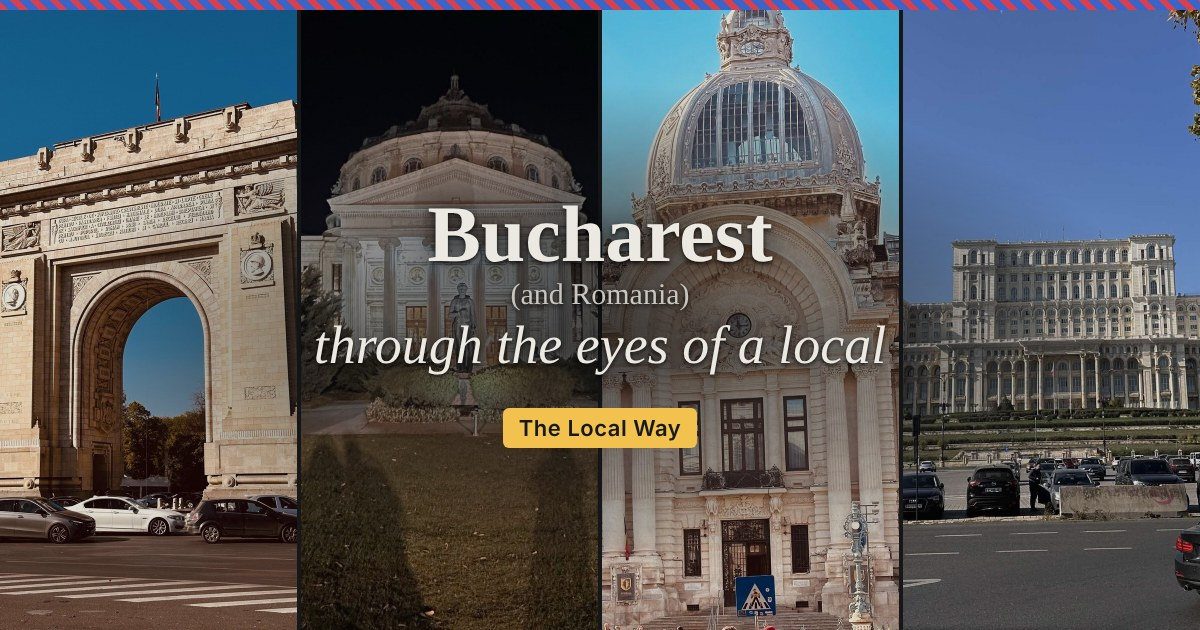
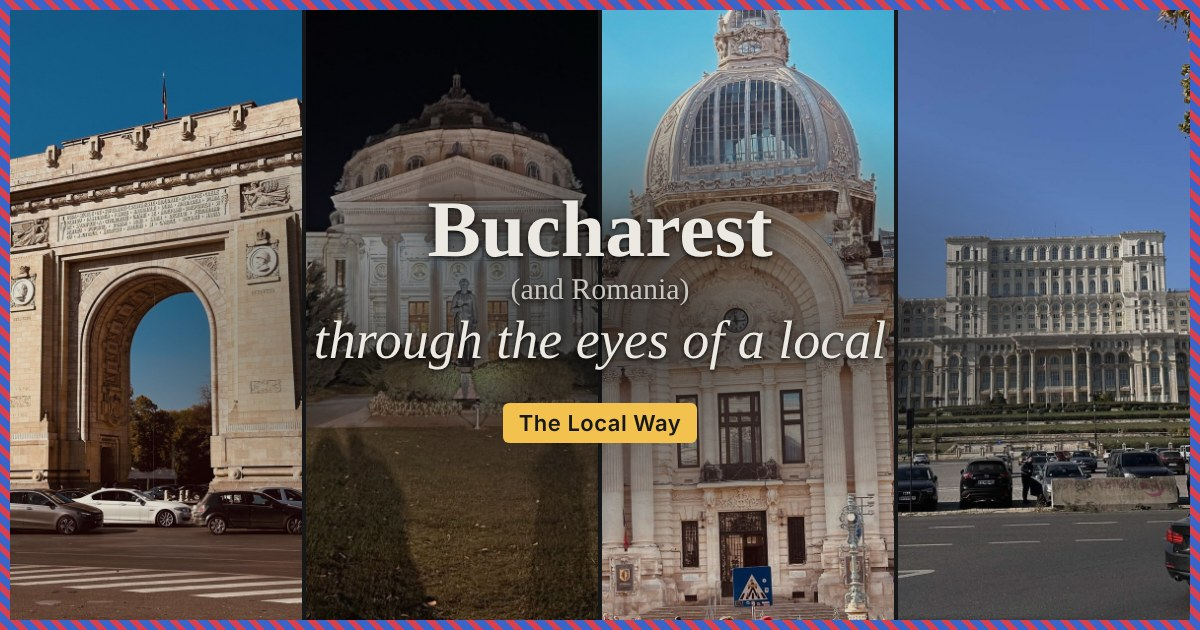
Link preview frame

diff --git a/index.html b/index.html
@@ -9,12 +9,12 @@
 <meta property="og:url" content="https://xceapi.github.io/">
 <meta property="og:title" content="The Local Way">
 <meta property="og:description" content="See Bucharest through a local's eyes. Free walks around the city and help during your trip.">
-<meta property="og:image" content="https://xceapi.github.io/img/og.jpg?v=5">
+<meta property="og:image" content="https://xceapi.github.io/img/og.jpg?v=6">
 <meta property="og:image:width" content="1200">
 <meta property="og:image:height" content="630">
 <meta property="og:image:alt" content="Ceapi in Kutná Hora, with a cathedral behind him">
 <meta name="twitter:card" content="summary_large_image">
-<meta name="twitter:image" content="https://xceapi.github.io/img/og.jpg?v=5">
+<meta name="twitter:image" content="https://xceapi.github.io/img/og.jpg?v=6">
 <style>
 :root{
   --bg:#17181a; --bg2:#202225; --ink:#ece9e2; --muted:#a3a19b; --line:#34363a;
